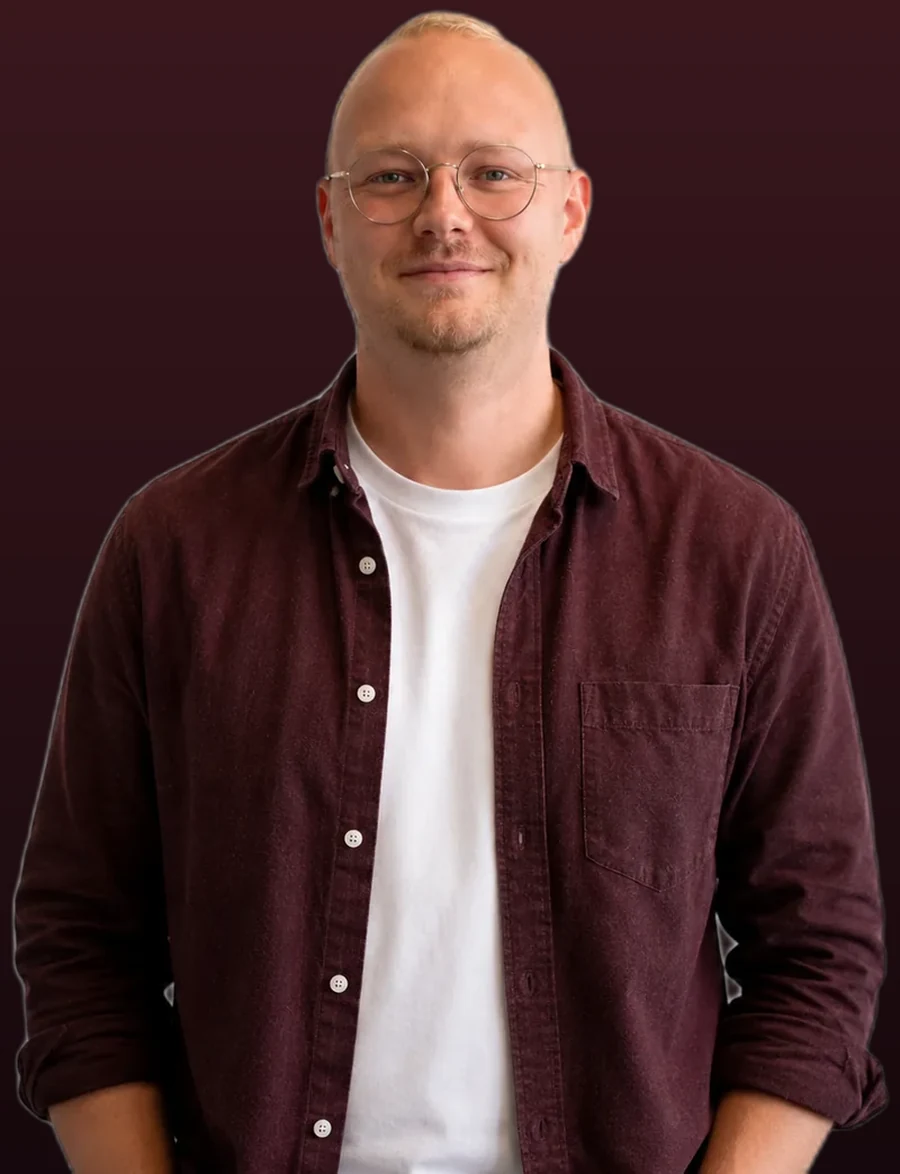
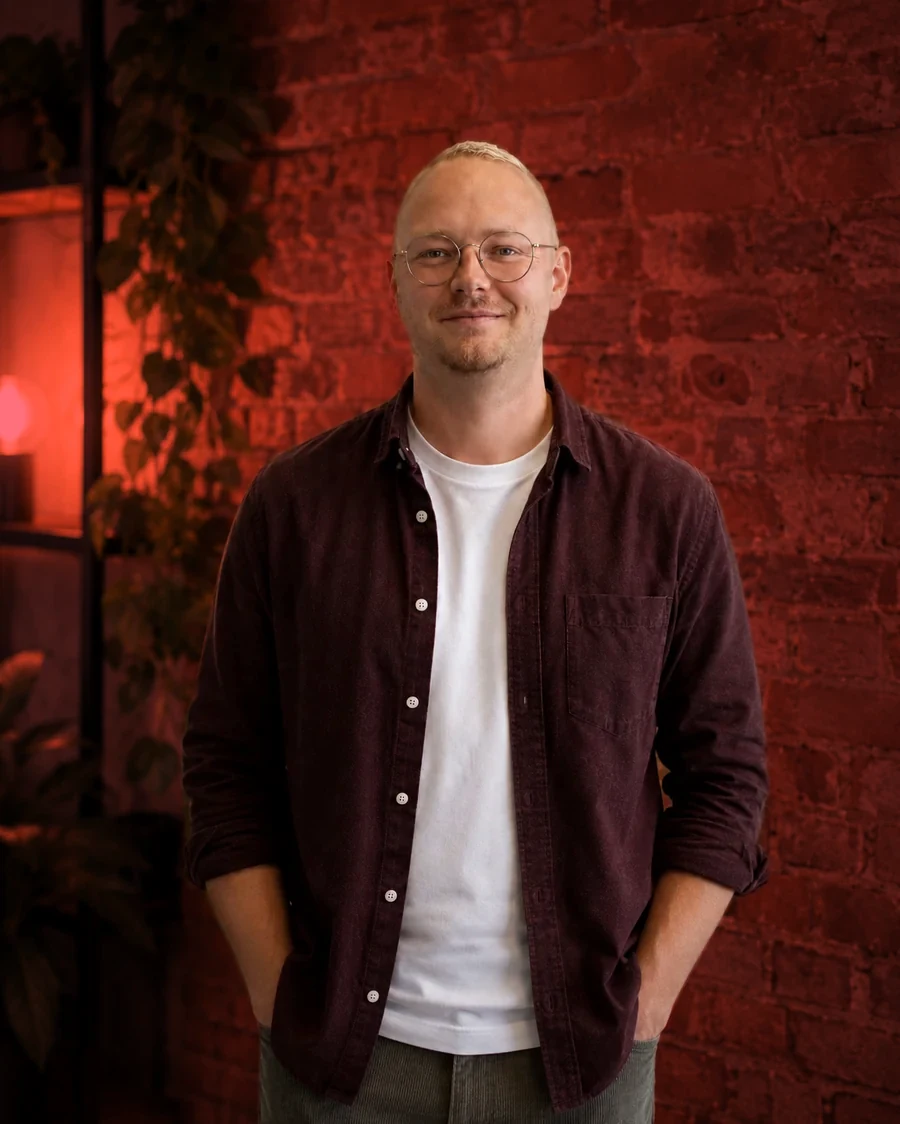
Rose-tint brick wall background, 2x faster hero scroll, remove About photo
- Reprocess hero image: brick wall in deep rose-rouge, Julian natural colors
- Reduce ContainerScroll height 320vh → 150vh (scroll 2x+ faster)
- Remove photo from About section (text-only, cleaner)

Claude-Session: https://claude.ai/code/session_0186W1bp2Cp45nbkhW4BgB8z

diff --git a/src/components/About.jsx b/src/components/About.jsx
@@ -1,66 +1,43 @@
-import julian from '../assets/julian-about.webp'
-
 export default function About() {
   return (
     <section id="ueber-mich" className="bg-ivory py-24 md:py-36 px-6 md:px-12">
-      <div className="max-w-6xl mx-auto">
-        <div className="grid md:grid-cols-2 gap-16 md:gap-24 items-center">
+      <div className="max-w-6xl mx-auto max-w-2xl">
+        <p className="text-accent text-xs font-medium tracking-[0.2em] uppercase mb-6">
+          Über mich
+        </p>
+        <h2 className="text-ink text-3xl md:text-4xl font-light leading-snug tracking-tight mb-8">
+          Kein Team, kein&nbsp;Overhead.
+          <br />
+          Nur ich und Ihre Website.
+        </h2>
+        <div className="space-y-4 text-muted text-base font-light leading-relaxed mb-10">
+          <p>
+            Ich bin Julian Schmitt, freier Webdesigner aus Trier. Ich arbeite
+            ausschließlich solo — das bedeutet keine Agentur-Bürokratie, kein
+            Durchreichen, keine überraschenden Aufschläge.
+          </p>
+          <p>
+            Sie sprechen direkt mit der Person, die Ihre Website baut. Das spart
+            Zeit, schafft Vertrauen und führt zu besseren Ergebnissen.
+          </p>
+          <p>
+            Ich verstehe die Anforderungen lokaler Betriebe — und ich baue Websites,
+            die bei echten Menschen auf echten Smartphones funktionieren. Schlüsselfertig
+            übergeben, wie ein neu gebautes Haus.
+          </p>
+        </div>
 
-          {/* Foto */}
-          <div className="order-1">
-            <div className="relative">
-              <div className="absolute -left-4 top-8 bottom-8 w-1 bg-accent rounded-full" />
-              <img
-                src={julian}
-                alt="Julian Schmitt, Webdesigner aus Trier"
-                className="w-full max-w-sm mx-auto md:mx-0 rounded-sm shadow-lg"
-                loading="lazy"
-                draggable="false"
-              />
+        <div className="pt-10 border-t border-border grid grid-cols-3 gap-6 max-w-sm">
+          {[
+            ['Solo', 'Kein Overhead'],
+            ['Trier', 'Vor Ort'],
+            ['Direkt', 'Persönlich'],
+          ].map(([label, sub]) => (
+            <div key={label}>
+              <div className="text-ink text-base font-medium mb-1">{label}</div>
+              <div className="text-muted text-xs font-light">{sub}</div>
             </div>
-          </div>
-
-          {/* Text */}
-          <div className="order-2">
-            <p className="text-accent text-xs font-medium tracking-[0.2em] uppercase mb-6">
-              Über mich
-            </p>
-            <h2 className="text-ink text-3xl md:text-4xl font-light leading-snug tracking-tight mb-8">
-              Kein Team, kein&nbsp;Overhead.
-              <br />
-              Nur ich und Ihre Website.
-            </h2>
-            <div className="space-y-4 text-muted text-base font-light leading-relaxed">
-              <p>
-                Ich bin Julian Schmitt, freier Webdesigner aus Trier. Ich arbeite
-                ausschließlich solo — das bedeutet keine Agentur-Bürokratie, kein
-                Durchreichen, keine überraschenden Aufschläge.
-              </p>
-              <p>
-                Sie sprechen direkt mit der Person, die Ihre Website baut. Das spart
-                Zeit, schafft Vertrauen und führt zu besseren Ergebnissen.
-              </p>
-              <p>
-                Ich verstehe die Anforderungen lokaler Betriebe — und ich baue Websites,
-                die bei echten Menschen auf echten Smartphones funktionieren. Schlüsselfertig
-                übergeben, wie ein neu gebautes Haus.
-              </p>
-            </div>
-
-            <div className="mt-10 pt-10 border-t border-border grid grid-cols-3 gap-6">
-              {[
-                ['Solo', 'Kein Overhead'],
-                ['Trier', 'Vor Ort'],
-                ['Direkt', 'Persönlich'],
-              ].map(([label, sub]) => (
-                <div key={label}>
-                  <div className="text-ink text-base font-medium mb-1">{label}</div>
-                  <div className="text-muted text-xs font-light">{sub}</div>
-                </div>
-              ))}
-            </div>
-          </div>
-
+          ))}
         </div>
       </div>
     </section>

diff --git a/src/components/Hero.jsx b/src/components/Hero.jsx
@@ -27,7 +27,7 @@ export default function Hero() {
   }
 
   return (
-    <ContainerScroll id="hero" className="h-[320vh]">
+    <ContainerScroll id="hero" className="h-[150vh]">
       <ContainerSticky className="overflow-hidden bg-night text-white">
         {/* Wind-Hintergrund */}
         <WindBackground />